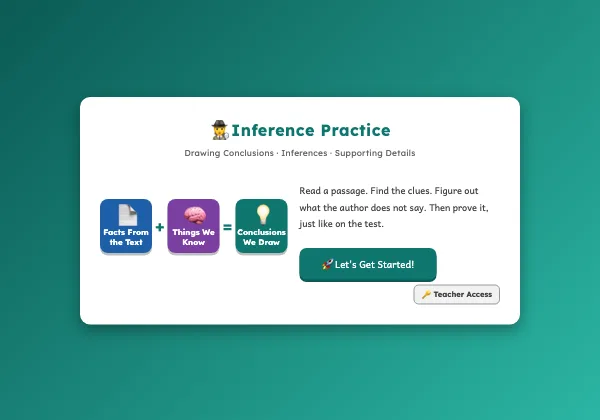
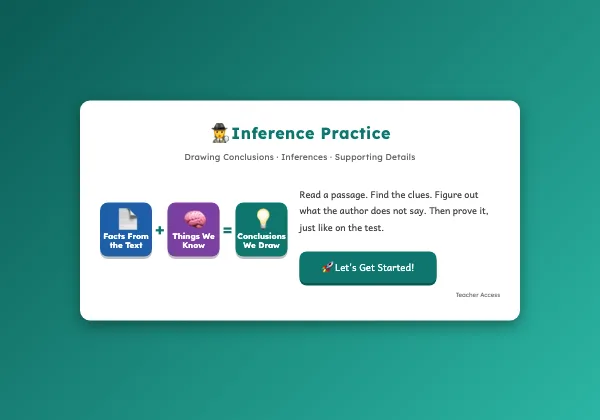
fix: Inference Practice card picture shows the small Teacher Access
The first picture (10/23 03:00) showed the big key button that Marcos asked to
make smaller. New shot of the open start screen; img ?v=2 so the edge cache
serves the new picture.

Changed region(s): [[0.12, 0.4333, 0.87, 0.7738], [0.3, 0.2786, 0.69, 0.4024], [0.12, 0.2167, 0.87, 0.2476]]

diff --git a/index.html b/index.html
@@ -405,7 +405,7 @@
              Everyone climbs from Level 1 in one order (Continue). Opened 10/23 (Marcos: "open it"). -->
         <a href="https://molivera1977.github.io/inference-practice/" class="card" target="_blank">
             <div class="card-image">
-                <img loading="lazy" src="images/inference-practice-2026.webp" alt="Inference Practice">
+                <img loading="lazy" src="images/inference-practice-2026.webp?v=2" alt="Inference Practice">
             </div>
             <div class="card-content">
                 <div class="card-title">Inference Practice</div>
